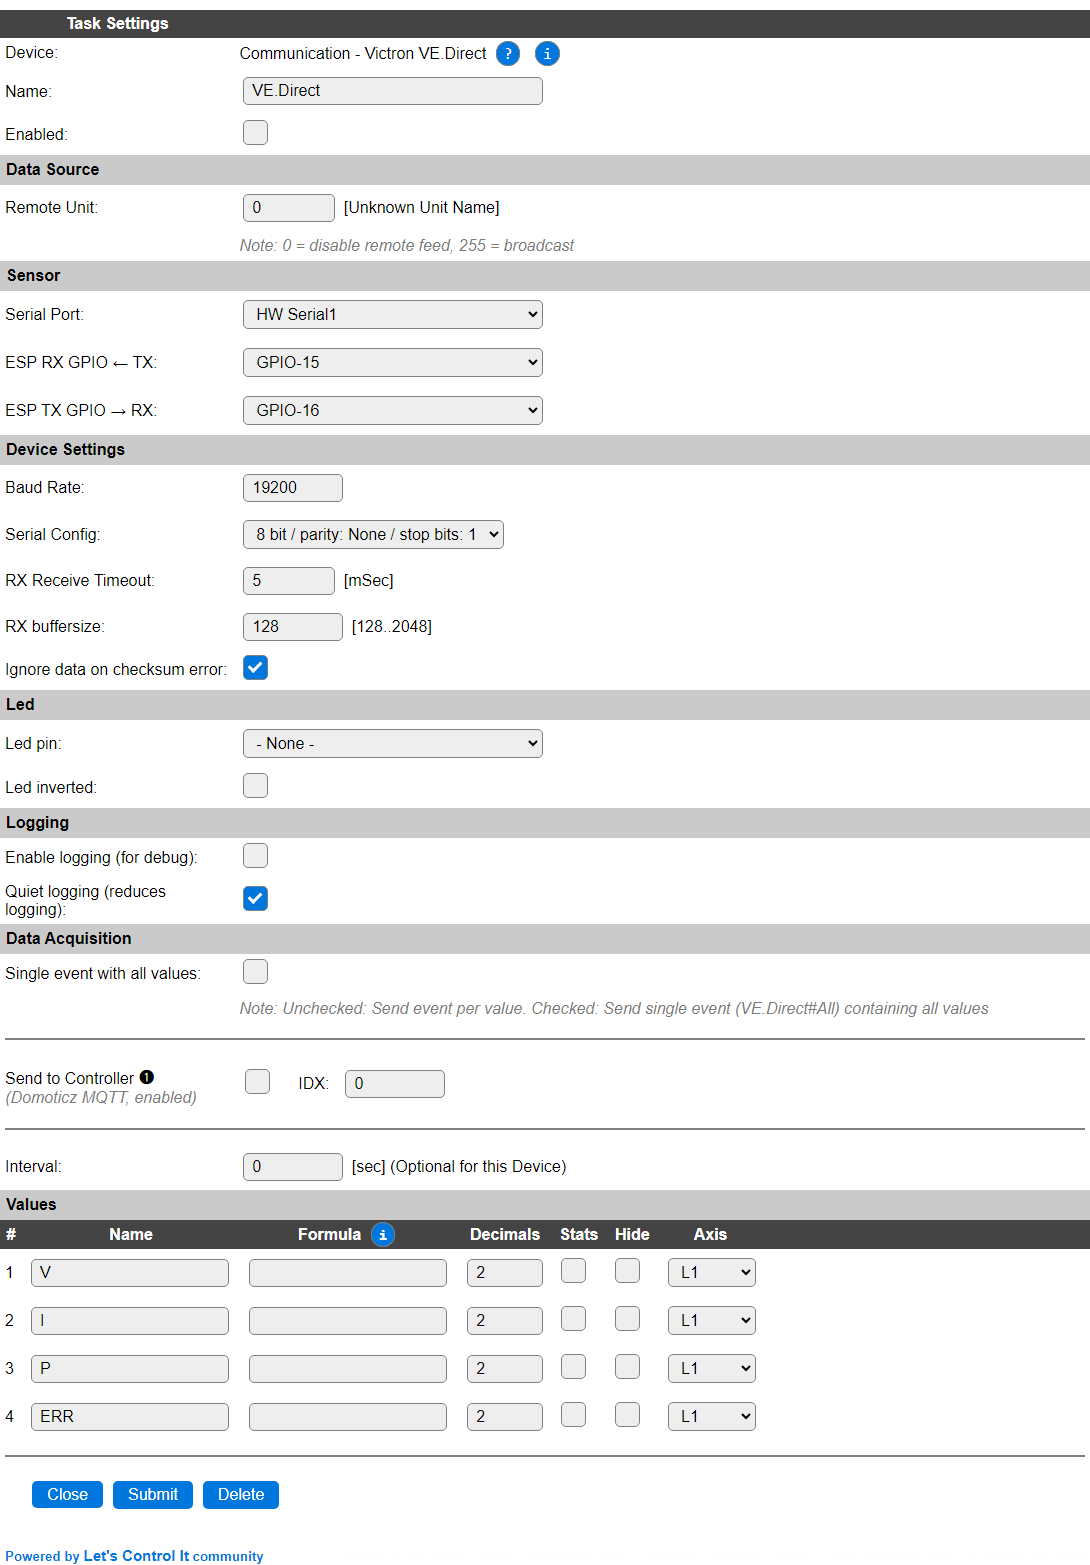
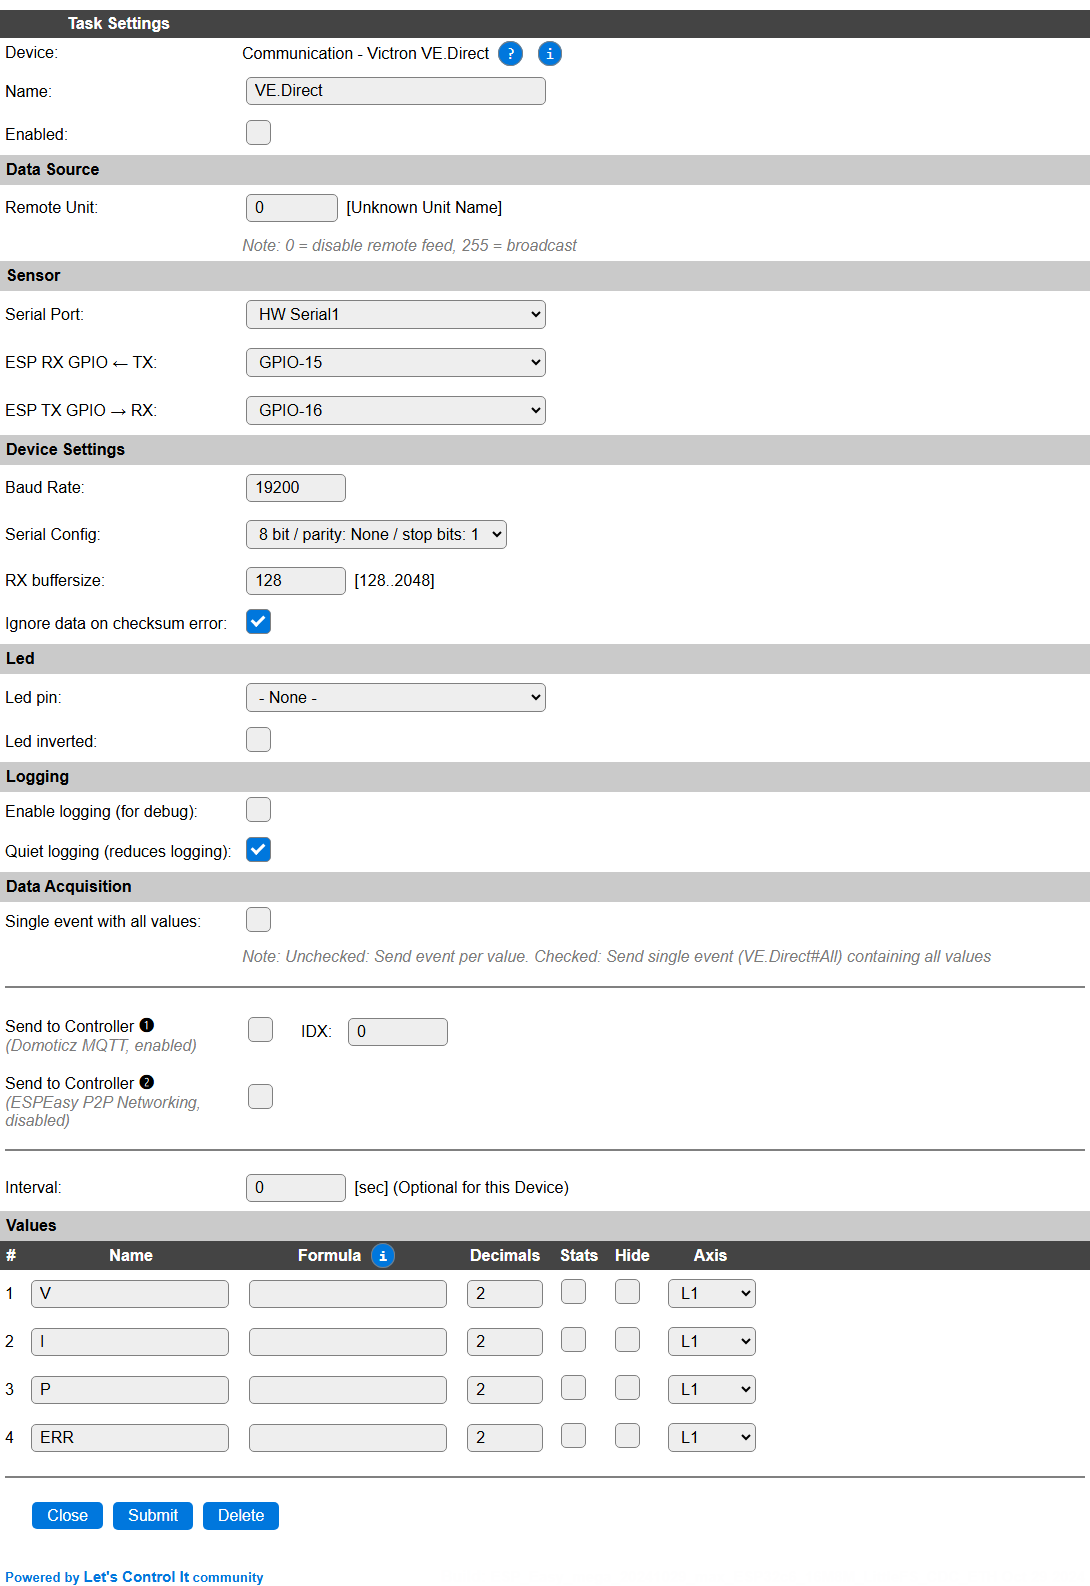
[P176] Update documentation

diff --git a/docs/source/Plugin/P176.rst b/docs/source/Plugin/P176.rst
@@ -45,8 +45,6 @@ Device Settings
 
 * **Baud Rate / Serial config**: See *Serial helper configuration*, above.
 
-* **RX Receive timeout**: If parts of serial data packets are somewhat delayed, but should still be handled as a single message, then the delay to wait for the next part can be configured here. 0 disables the delay.
-
 * **RX Buffersize**: The buffer to be used for ESPEasySerial, default and minimum is 128 bytes. Can be expanded up to 2048 bytes if processing of the received data takes too much time and data gets discarded. 
 
 * **Ignore data on checksum error**: The protocol includes a checksum calculation, and when this fails, the data is probably unreliable, and should better be dismissed.
